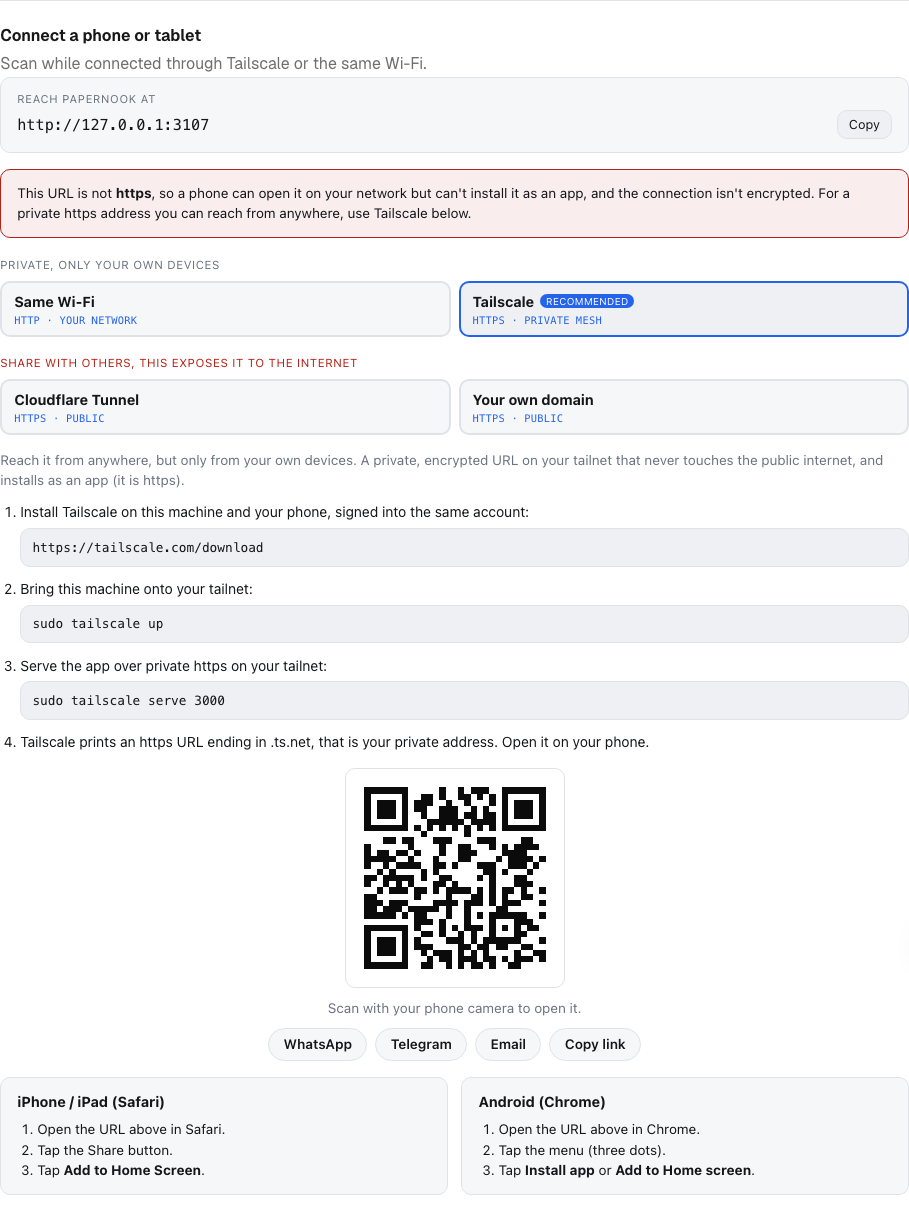
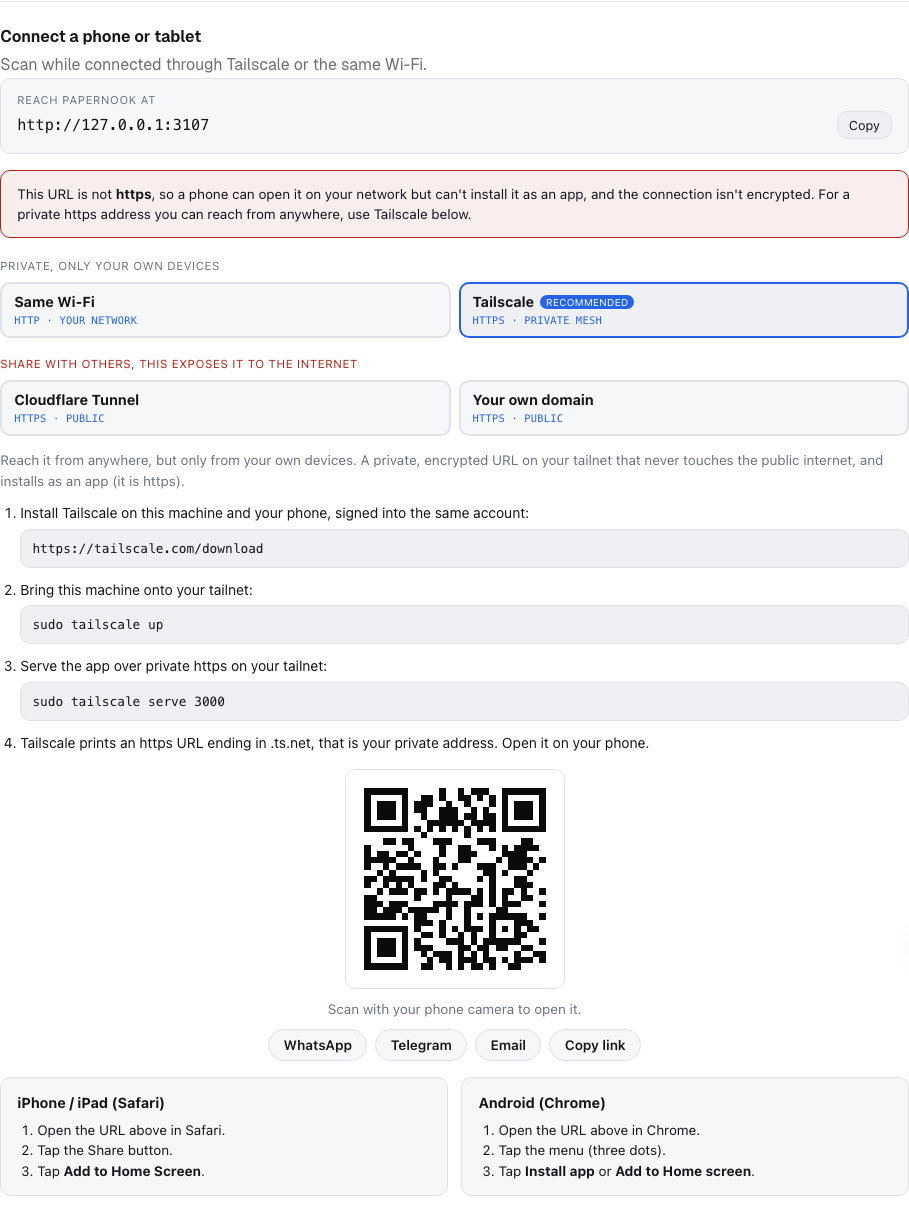
test: stabilize device setup screenshot

diff --git a/tests/e2e/docs-screenshots.spec.ts b/tests/e2e/docs-screenshots.spec.ts
@@ -523,6 +523,10 @@ test.describe.serial("documentation journeys and screenshots", () => {
     await expect(
       device.getByText("sudo tailscale serve 3000", { exact: true }),
     ).toBeVisible();
+    await device.evaluate((element) => {
+      element.style.boxSizing = "border-box";
+      element.style.height = "1220px";
+    });
     await expect(device).toHaveScreenshot(["setup", "connect-device.png"], {
       animations: "disabled",
       // Chromium text rasterization varies slightly after the dynamic panel
